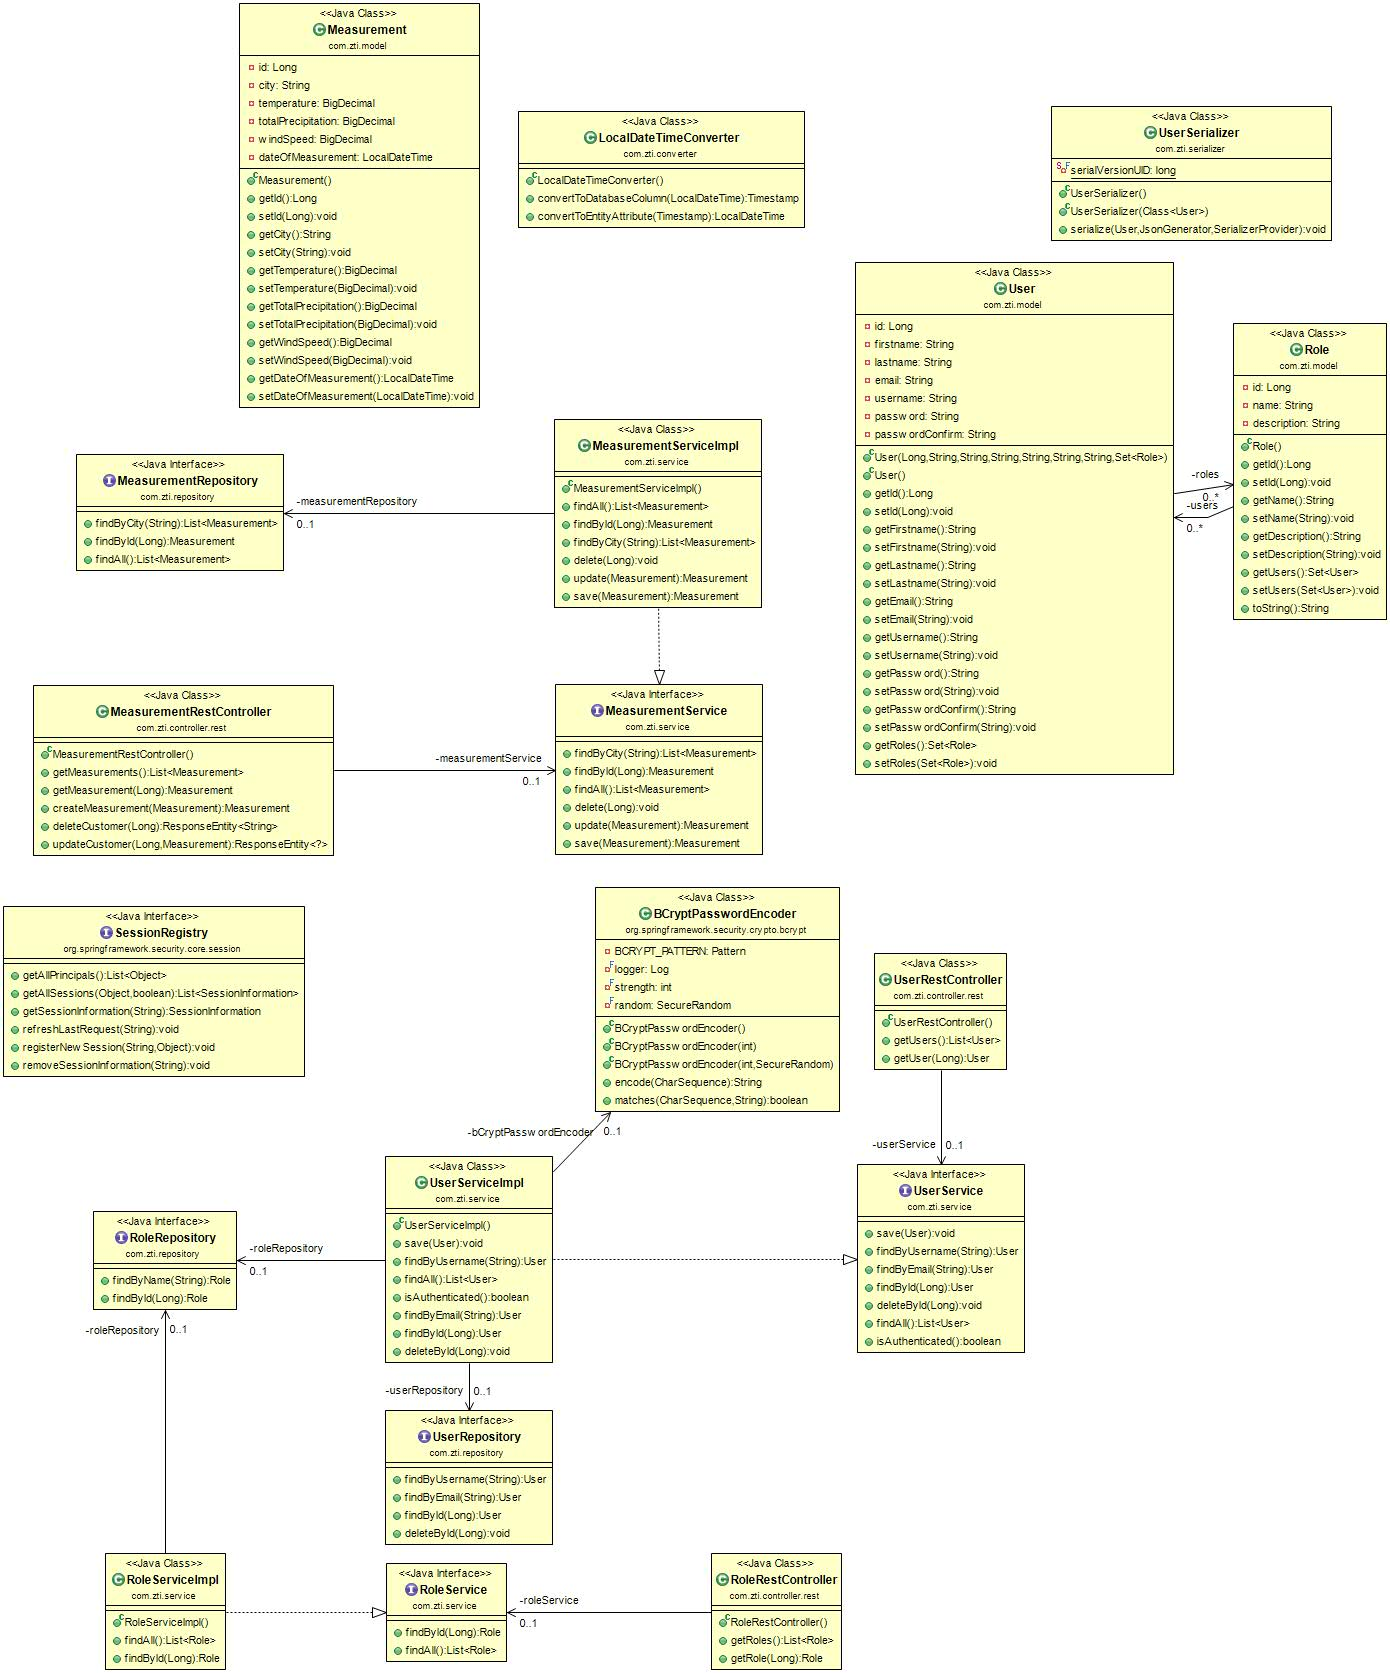
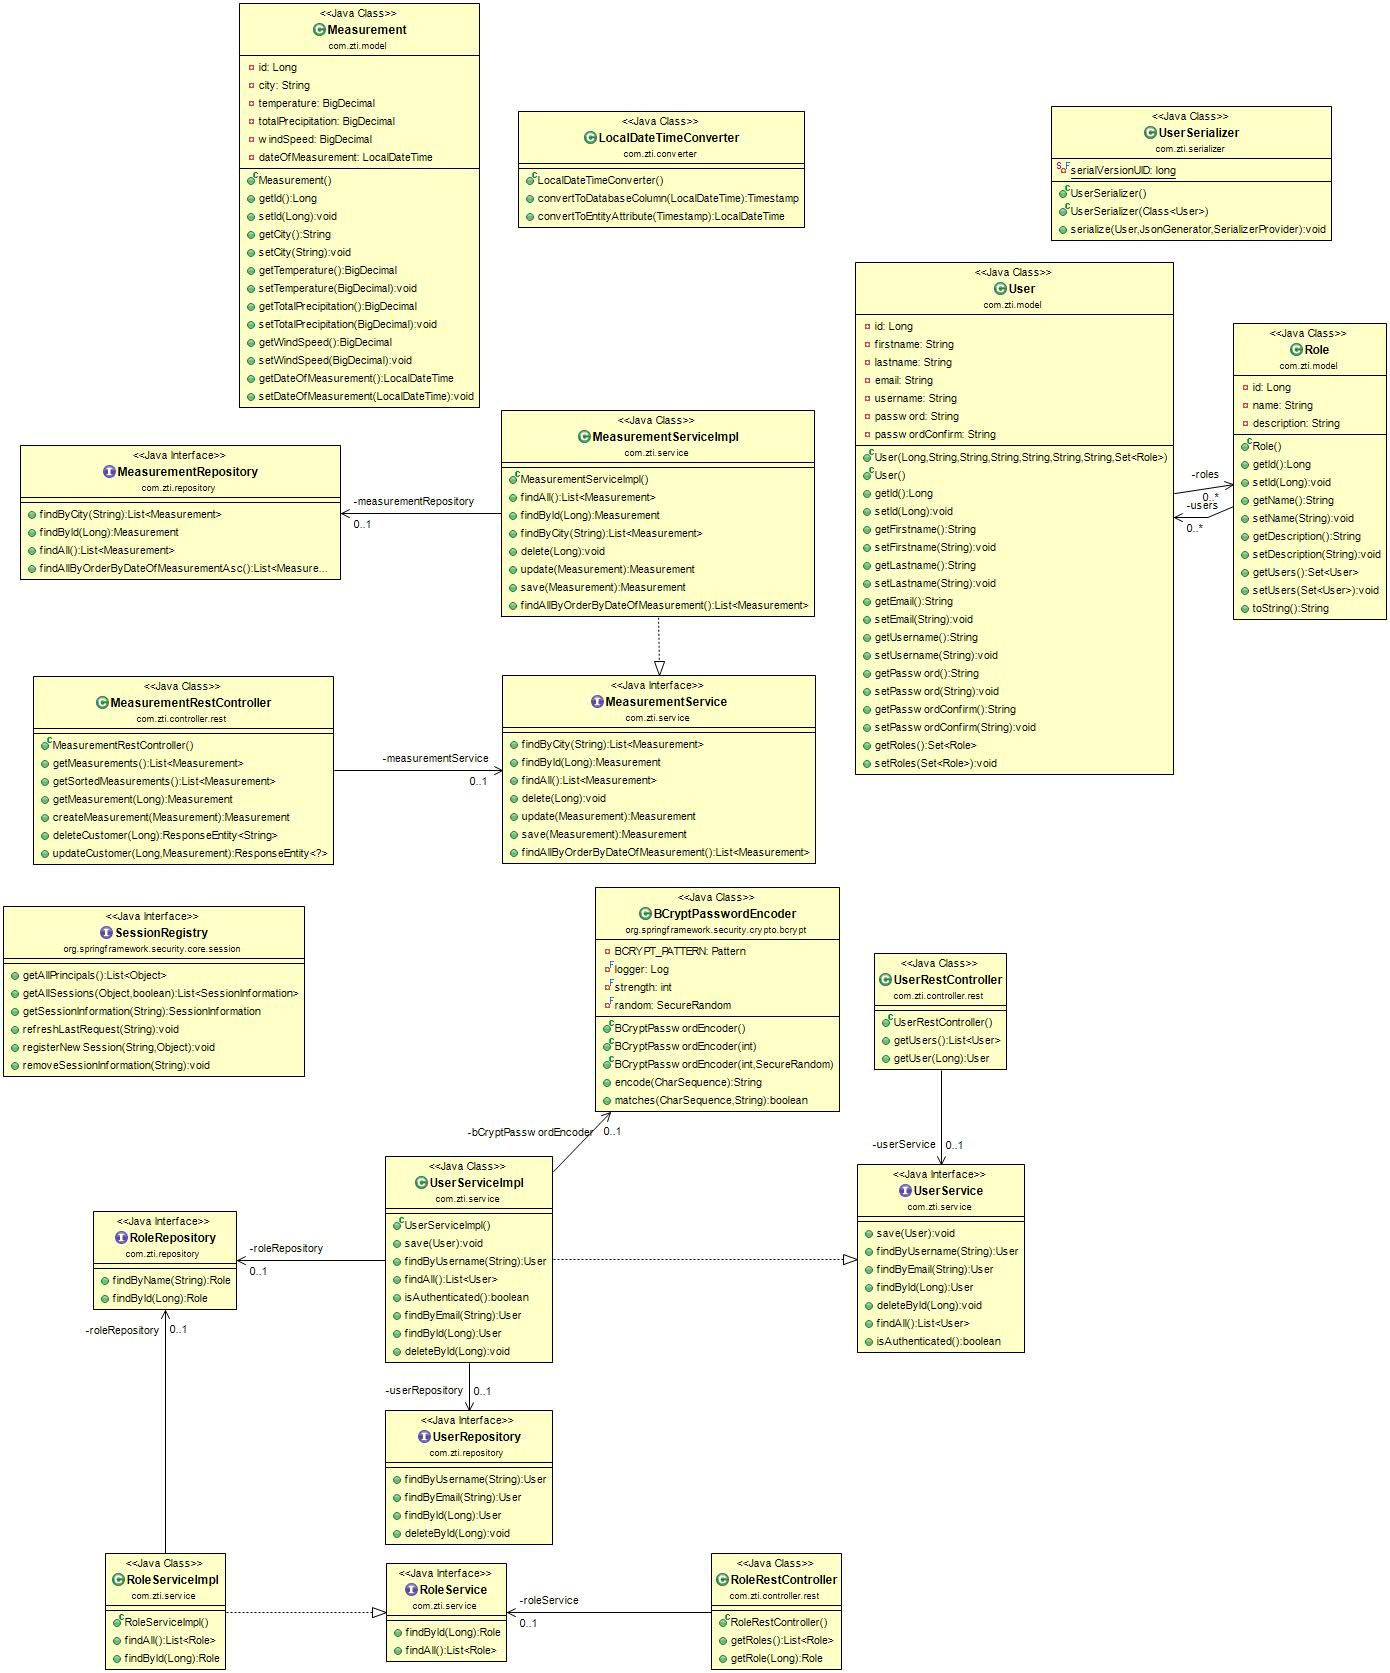
Poprawki II

diff --git a/ZTI_2017/src/main/java/com/zti/repository/MeasurementRepository.java b/ZTI_2017/src/main/java/com/zti/repository/MeasurementRepository.java
@@ -2,7 +2,7 @@ package com.zti.repository;
 
 import java.util.List;
 
-import org.springframework.data.jpa.repository.JpaRepository;
+import org.springframework.data.repository.PagingAndSortingRepository;
 
 import com.zti.model.Measurement;
 
@@ -12,7 +12,7 @@ import com.zti.model.Measurement;
  * @author PawełN
  *
  */
-public interface MeasurementRepository extends JpaRepository<Measurement, Long> {
+public interface MeasurementRepository extends PagingAndSortingRepository<Measurement, Long> {
 	/**
 	 * Znajdywanie obiektów klasy Measurement po nazwie miasta
 	 * 
@@ -37,4 +37,12 @@ public interface MeasurementRepository extends JpaRepository<Measurement, Long> 
 	 * @see org.springframework.data.jpa.repository.JpaRepository#findAll()
 	 */
 	public List<Measurement> findAll();
+
+	/**
+	 * Znajdywanie wszystkich obiektów klasy Measurement w posortowanej
+	 * kolejności według daty
+	 * 
+	 * @return Lista posortowanych obiektów klasy Measurement
+	 */
+	public List<Measurement> findAllByOrderByDateOfMeasurementAsc();
 }

diff --git a/ZTI_2017/src/main/java/com/zti/controller/rest/MeasurementRestController.java b/ZTI_2017/src/main/java/com/zti/controller/rest/MeasurementRestController.java
@@ -43,6 +43,18 @@ public class MeasurementRestController {
 	}
 
 	/**
+	 * Wyświetla posortowaną listę wszystkich pomiarów w bazie według daty
+	 * pomiaru
+	 * 
+	 * @return Lista wszystkich posortowanych pomiarów w bazie danych według
+	 *         daty pomiaru
+	 */
+	@GetMapping("rest/sortedMeasurements")
+	public List<Measurement> getSortedMeasurements() {
+		return measurementService.findAllByOrderByDateOfMeasurement();
+	}
+
+	/**
 	 * Wyświetla pojedynczy pomiar
 	 * 
 	 * @param id

diff --git a/ZTI_2017/src/main/java/com/zti/service/MeasurementServiceImpl.java b/ZTI_2017/src/main/java/com/zti/service/MeasurementServiceImpl.java
@@ -84,4 +84,14 @@ public class MeasurementServiceImpl implements MeasurementService {
 		return measurementRepository.save(measurement);
 	}
 
+	/*
+	 * (non-Javadoc)
+	 * 
+	 * @see com.zti.service.MeasurementService#findAllByOrderByDateOfCreated()
+	 */
+	@Override
+	public List<Measurement> findAllByOrderByDateOfMeasurement() {
+		return measurementRepository.findAllByOrderByDateOfMeasurementAsc();
+	}
+
 }

diff --git a/ZTI_2017/src/main/java/com/zti/service/MeasurementService.java b/ZTI_2017/src/main/java/com/zti/service/MeasurementService.java
@@ -61,4 +61,11 @@ public interface MeasurementService {
 	 * @return Zwraca utworzony obiekt
 	 */
 	public Measurement save(Measurement measurement);
+
+	/**
+	 * Zwraca liste wszystkich pomiarów posortowanych po dacie pomiaru
+	 * 
+	 * @return Lista wszystkich posortowanych obiektów klasy Measurement
+	 */
+	public List<Measurement> findAllByOrderByDateOfMeasurement();
 }

diff --git a/ZTI_2017/src/main/java/com/zti/controller/rest/UserRestController.java b/ZTI_2017/src/main/java/com/zti/controller/rest/UserRestController.java
@@ -39,8 +39,8 @@ public class UserRestController {
 	 * Wyświetla pojedynczego użytkownika
 	 * 
 	 * @param id
-	 *            Indetyfikator użytkownika
-	 * @return
+	 *            Identyfikator użytkownika
+	 * @return Obiekt użytkownika
 	 */
 	@GetMapping("/rest/user/{id}")
 	public User getUser(@PathVariable("id") Long id) {

diff --git a/ZTI_2017/src/main/java/com/zti/repository/UserRepository.java b/ZTI_2017/src/main/java/com/zti/repository/UserRepository.java
@@ -39,6 +39,12 @@ public interface UserRepository extends JpaRepository<User, Long> {
 	 */
 	User findById(Long id);
 
+	/**
+	 * Usuwanie obiektu klasy User
+	 * 
+	 * @param id
+	 *            Identyfikator obiektu
+	 */
 	@Transactional
 	void deleteById(Long id);
 }

diff --git a/ZTI_2017/src/main/java/com/zti/controller/client/UserController.java b/ZTI_2017/src/main/java/com/zti/controller/client/UserController.java
@@ -86,7 +86,7 @@ public class UserController {
 	 * 
 	 * @param model
 	 *            Model widoku
-	 * @return
+	 * @return Strona logowania
 	 */
 	@RequestMapping(value = "/login", method = RequestMethod.GET)
 	public String login(Model model) {
